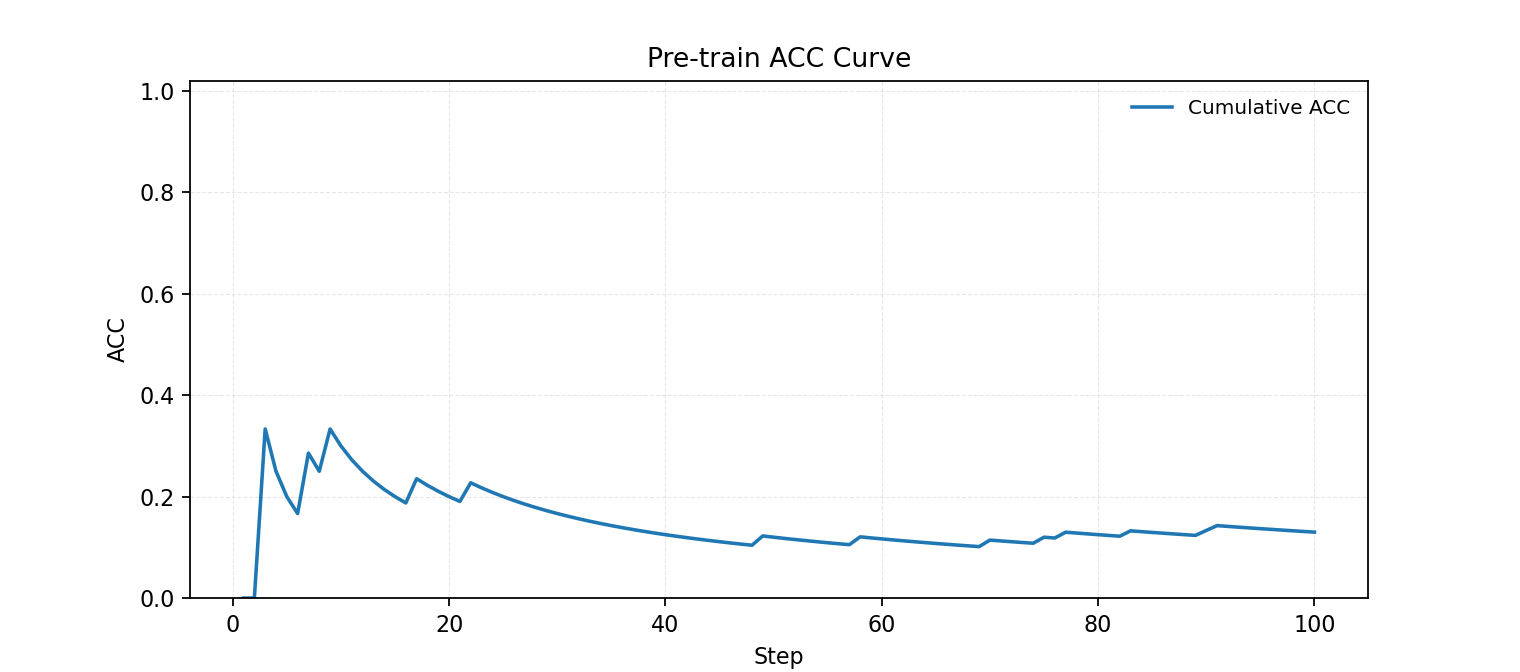
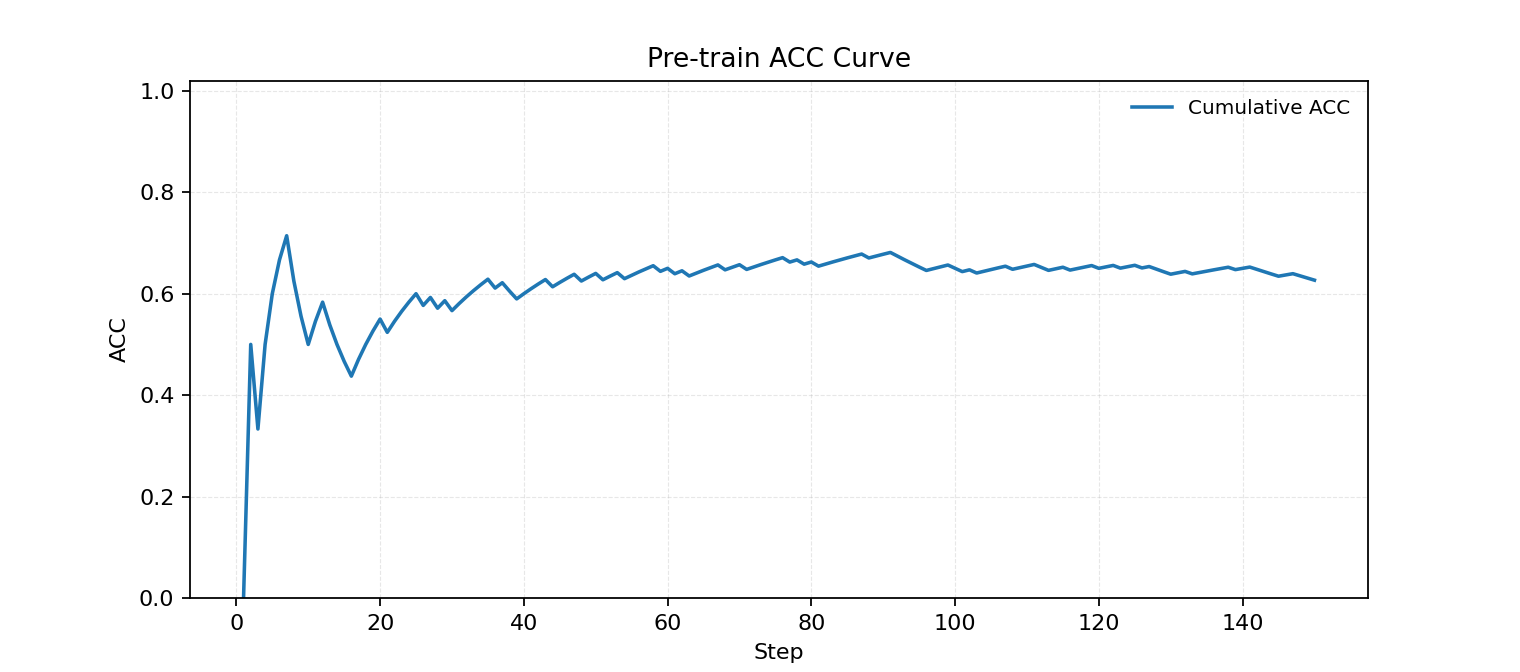
cold start update

diff --git a/recalc_acc.py b/recalc_acc.py
@@ -1,0 +1,181 @@
+#!/usr/bin/env python3
+# -*- coding: utf-8 -*-
+
+import json
+import re
+import argparse
+from typing import Any, Dict, List, Tuple
+
+
+def _canonical_num(num_str: str) -> str:
+    try:
+        val = float(num_str)
+    except Exception:
+        return num_str.strip()
+    if abs(val - round(val)) < 1e-9:
+        return str(int(round(val)))
+    text = f"{val:.10f}".rstrip("0").rstrip(".")
+    return text
+
+
+def _extract_last_number(text: str) -> str:
+    if not text:
+        return ""
+    clean = text.replace(",", "").replace("$", "").replace("%", "")
+    nums = re.findall(r"-?\d+(?:\.\d+)?", clean)
+    return _canonical_num(nums[-1]) if nums else ""
+
+
+def _normalize_answer(x: Any) -> str:
+    if x is None:
+        return ""
+    if isinstance(x, (int, float)):
+        return str(x).strip().lower()
+    s = str(x).strip().lower()
+    for ch in ["\n", "\t", ",", ".", ":", ";", "!", "?", "\"", "'", "(", ")", "[", "]"]:
+        s = s.replace(ch, " ")
+    return " ".join(s.split())
+
+
+def strip_code_fences(text: str) -> str:
+    """Remove surrounding ``` or ```json fences if present."""
+    if not text:
+        return ""
+    t = text.strip()
+    if not t.startswith("```"):
+        return t
+
+    lines = t.splitlines()
+    # drop first fence line
+    if lines and lines[0].startswith("```"):
+        lines = lines[1:]
+    # drop last fence line if it's ```
+    if lines and lines[-1].strip() == "```":
+        lines = lines[:-1]
+    return "\n".join(lines).strip()
+
+
+def try_json_final_answer(text: str) -> str:
+    if not text:
+        return ""
+    t = strip_code_fences(text)
+
+    # Some models wrap JSON inside extra text; try to locate first {...} block.
+    # This is conservative: we first try whole string, then fallback to regex.
+    try:
+        obj = json.loads(t)
+        if isinstance(obj, dict):
+            for key in ["final_answer", "answer", "final", "output"]:
+                if key in obj and obj[key] is not None:
+                    return str(obj[key]).strip()
+    except Exception:
+        pass
+
+    # Fallback: find first JSON object substring
+    m = re.search(r"\{.*\}", t, flags=re.DOTALL)
+    if m:
+        s = m.group(0)
+        try:
+            obj = json.loads(s)
+            if isinstance(obj, dict):
+                for key in ["final_answer", "answer", "final", "output"]:
+                    if key in obj and obj[key] is not None:
+                        return str(obj[key]).strip()
+        except Exception:
+            pass
+
+    return ""
+
+
+def extract_pred_fixed(text: str) -> str:
+    if not text:
+        return ""
+    json_ans = try_json_final_answer(text)
+    if json_ans:
+        return json_ans
+
+    low = text.lower()
+    key = "final answer:"
+    if key in low:
+        idx = low.rfind(key)
+        return text[idx + len(key):].strip()
+    if "####" in text:
+        return text.split("####")[-1].strip()
+    return text.strip()
+
+
+def extract_gold_text(log_row: Dict[str, Any]) -> str:
+    # Your existing logs store gold as "gold"
+    return str(log_row.get("gold", "") or "")
+
+
+def is_correct_gsm8k(pred: str, gold_text: str) -> int:
+    pnum = _extract_last_number(pred)
+    gnum = _extract_last_number(gold_text)
+    if pnum and gnum:
+        return 1 if _canonical_num(pnum) == _canonical_num(gnum) else 0
+    # fallback string normalize
+    return 1 if _normalize_answer(pred) and _normalize_answer(pred) == _normalize_answer(gold_text) else 0
+
+
+def main() -> None:
+    ap = argparse.ArgumentParser()
+    ap.add_argument("--infile", required=True, help="Path to pretrain_*.jsonl")
+    ap.add_argument("--outfile", required=True, help="Path to write updated jsonl")
+    ap.add_argument("--benchmark", default="gsm8k", help="Only recalc for this benchmark (default gsm8k)")
+    args = ap.parse_args()
+
+    rows: List[Dict[str, Any]] = []
+    with open(args.infile, "r", encoding="utf-8") as f:
+        for line in f:
+            line = line.strip()
+            if not line:
+                continue
+            rows.append(json.loads(line))
+
+    bench = args.benchmark.strip().lower()
+
+    old_correct = 0
+    new_correct = 0
+    total = 0
+
+    for r in rows:
+        b = str(r.get("benchmark", "") or "").strip().lower()
+        if bench and b != bench:
+            continue
+
+        total += 1
+        old_acc = int(r.get("acc", 0) or 0)
+        old_correct += old_acc
+
+        pred_text = str(r.get("pred", "") or "")
+        gold_text = extract_gold_text(r)
+
+        new_pred = extract_pred_fixed(pred_text)
+        new_acc = is_correct_gsm8k(new_pred, gold_text)
+
+        # ✅ Update pred and acc with fixed values (clean format)
+        r["pred"] = new_pred
+        r["acc"] = new_acc
+        # Keep pred_fixed and acc_fixed for reference (if needed for comparison)
+        r["pred_fixed"] = new_pred
+        r["acc_fixed"] = new_acc
+
+        new_correct += new_acc
+
+    with open(args.outfile, "w", encoding="utf-8") as f:
+        for r in rows:
+            f.write(json.dumps(r, ensure_ascii=False) + "\n")
+
+    def pct(x: int, n: int) -> float:
+        return (x / n * 100.0) if n > 0 else 0.0
+
+    print(f"[DONE] benchmark={bench} total={total}")
+    print(f"  old_acc: {old_correct}/{total} = {pct(old_correct, total):.2f}%")
+    print(f"  new_acc: {new_correct}/{total} = {pct(new_correct, total):.2f}%")
+    print(f"[WROTE] {args.outfile}")
+
+
+if __name__ == "__main__":
+    main()
+

diff --git a/symphony.py b/symphony.py
@@ -756,8 +756,27 @@ class SymphonyOrchestrator:
                     traces_by_subtask[sid] = {"error": err, "runs": [], "voted": err, "requirement": req}
                 continue
 
-            topL = candidates_avail[: max(1, self.topL)]
-            runs = min(int(cot_count), len(topL)) if topL else 0
+            # ✅ Exploration constraint 1: Top-L must be unique (deduplicate by agent_id)
+            # Ensure no duplicate agents in topL (critical for exploration)
+            seen_agent_ids = set()
+            topL_unique: List[Dict[str, Any]] = []
+            for c in candidates_avail:
+                ag = c["agent"]
+                aid = self._resolve_agent_key(ag)
+                if not aid:
+                    aid = f"agent_{id(ag)}"
+                if aid not in seen_agent_ids:
+                    seen_agent_ids.add(aid)
+                    topL_unique.append(c)
+                    if len(topL_unique) >= self.topL:
+                        break
+            
+            # If not enough unique agents, use what we have (at least 1)
+            topL = topL_unique[: max(1, self.topL)] if topL_unique else candidates_avail[:1]
+            
+            # ✅ Exploration constraint 2: Fixed exploration budget K (don't vary with topL length)
+            # For cold_start exploration, always use cot_count as the fixed budget
+            runs = int(cot_count) if cot_count > 0 else 0
             if runs <= 0:
                 err = f"[ERROR] All agents filtered out for subtask: {req}"
                 results[sid] = err
@@ -769,16 +788,20 @@ class SymphonyOrchestrator:
             run_records: List[Dict[str, Any]] = []
             cot_results: List[str] = []
 
-            for _ in range(runs):
+            for j in range(runs):
                 if self.use_dynamic and self.selector is not None:
                     agent, x, _st, match_score = self._select_agent_dynamic(topL, used_ids)
                 else:
-                    agent = topL[0]["agent"]
+                    # ✅ cold_start: static Top-L but round-robin across agents (no repeat)
+                    # Use j % len(topL) to cycle through topL candidates
+                    candidate_idx = j % len(topL) if topL else 0
+                    candidate = topL[candidate_idx]
+                    agent = candidate["agent"]
                     stt = self._agent_state(agent)
                     # ✅ P0-4: Use unified helper (ensures ms=sim_emb, rep=prior_success)
-                    match_score = float(topL[0].get("match_score", 0.0))  # For logging
+                    match_score = float(candidate.get("match_score", 0.0))  # For logging
                     x = self._build_x_from_candidate_or_fallback(
-                        candidate=topL[0],
+                        candidate=candidate,
                         agent=agent,
                         dynamic_state=stt,
                     )

diff --git a/Pre-train.py b/Pre-train.py
@@ -67,7 +67,7 @@ def build_task_obj(task: Dict[str, Any], i: int) -> Task:
 		{
 			"task_id": str(task.get("task_id") or task.get("id") or f"task_{i}"),
 			"description": task_text,
-			"requirements": ["general-reasoning"],
+			"requirements": ["analysis"],  # ✅ Use standard vocab to avoid routing NA
 			"context": {
 				"benchmark": task.get("benchmark", ""),
 				"difficulty_bin": task.get("difficulty_bin", ""),
@@ -121,8 +121,22 @@ def _extract_last_number(text: str) -> str:
 def _try_json_final_answer(text: str) -> str:
 	if not text:
 		return ""
+	t = text.strip()
+
+	# 1) strip ```json ... ``` fences if present
+	if t.startswith("```"):
+		lines = t.splitlines()
+		# remove first fence line (```json or ```)
+		if lines and lines[0].startswith("```"):
+			lines = lines[1:]
+		# remove last fence line if it is ```
+		if lines and lines[-1].strip() == "```":
+			lines = lines[:-1]
+		t = "\n".join(lines).strip()
+
+	# 2) try parse as JSON
 	try:
-		obj = json.loads(text)
+		obj = json.loads(t)
 		if isinstance(obj, dict):
 			for key in ["final_answer", "answer", "final", "output"]:
 				if key in obj and obj[key] is not None:
@@ -274,7 +288,13 @@ def run_phase(
 								agent_ids.append(str(aid))
 		dt = time.time() - t0
 		ok = is_success(final_text)
-		pred = extract_pred(final_text)
+		# ✅ Store both raw and clean pred: raw for debugging, clean for evaluation
+		pred_raw = final_text  # Original voted output (may contain ```json fences)
+		pred = extract_pred(final_text)  # Clean extracted answer
+		# ✅ Ensure pred is not empty if ok=1 (fallback to raw if extraction failed)
+		if ok == 1 and not pred:
+			# If extraction failed but text is valid, use stripped raw text as fallback
+			pred = final_text.strip() if final_text else ""
 		gold_text = extract_gold_text(task)
 		acc = is_correct(pred, gold_text, str(task.get("benchmark", "")))
 		logs.append(
@@ -286,7 +306,8 @@ def run_phase(
 				"difficulty_bin": task.get("difficulty_bin"),
 				"agent_ids": agent_ids,
 				"ok": ok,
-				"pred": pred,
+				"pred_raw": pred_raw,  # ✅ Raw output for debugging
+				"pred": pred,  # ✅ Clean answer for evaluation (used in acc calculation)
 				"gold": gold_text,
 				"acc": acc,
 				"latency_s": dt,

diff --git a/experiments/exp1_real_openrouter/README.md b/experiments/exp1_real_openrouter/README.md
@@ -145,7 +145,42 @@ python3 experiments/exp1_real_openrouter/exp1_real_openrouter.py \
   --fallback \
   --drift \
   --agents 1,2,3,4,5,6
+
+
+# 运行不包含drift的实验
+python3 experiments/exp1_real_openrouter/exp1_real_openrouter.py \
+  --n 1000 \
+  --p-hard 0.2 \
+  --seed 123 \
+  --topL 3 \
+  --alpha 1.0 \
+  --l2 1.0 \
+  --latency-scale-ms 2000 \
+  --latency-penalty 0.05 \
+  --cost-lambda 0.3 \
+  --fallback \
+  --drift \
+  --agents 1,2,3,4,5,6,7,8,9,10 \
+  --benchmarks humaneval,gsm8k,bbh,amc,medical_qa
+
 ```
+python3 /Users/caohuixi/symphony2.0/Pre-train.py \
+  --task-pool symphony-data-generator/data/benchmarks/full/gsm8k_full.jsonl \
+  --benchmark gsm8k \
+  --agents "11,12,13,14,15" \
+  --plan-k 3 \
+  --topL 3 \
+  --cot-count 5 \
+  --cold-n 50 \
+  --pretrain-n 200 \
+  --val-n 0 \
+  --seed 42 \
+  --plot-acc \
+  --print-each-step
+
+
+
+
 
 python3 experiments/exp1_real_openrouter/exp1_real_openrouter.py \
   --n 100 \
@@ -154,7 +189,7 @@ python3 experiments/exp1_real_openrouter/exp1_real_openrouter.py \
   --topL 2 \
   --fallback \
   --drift \
-  --agents 1,2,3,4,5,6,7 \
+  --agents 1,2,3,4,5,6,7,8,9,10 \
   --benchmarks humaneval,gsm8k
 
 ## 参数说明
